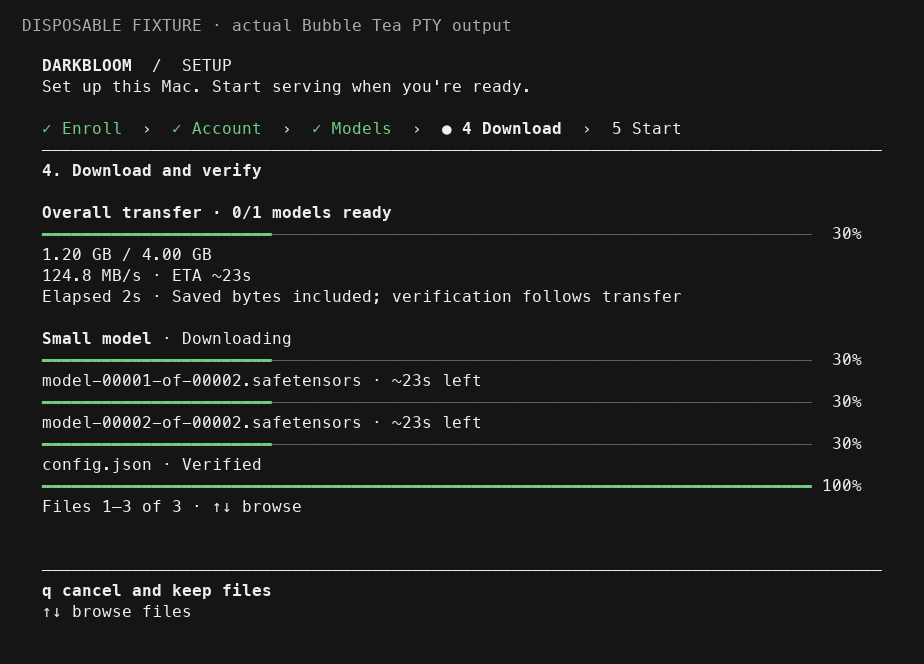
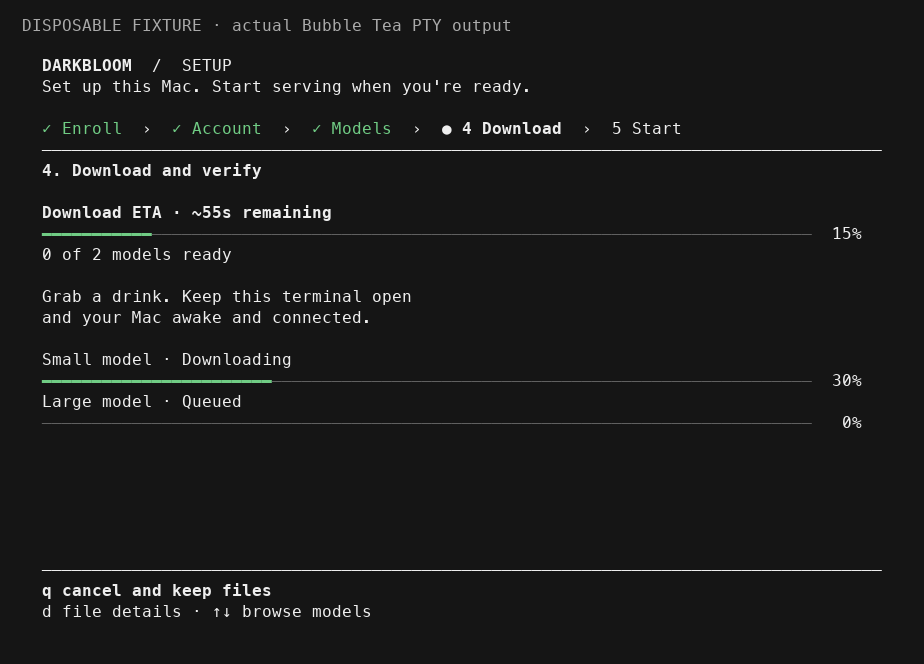
Update download overview and detail previews

diff --git a/docs/developer/onboarding-test.md b/docs/developer/onboarding-test.md
@@ -1,6 +1,6 @@
 # Test provider onboarding on a Mac
 
-> Last updated: 2026-09-07 · commit `1ce4526c8`
+> Last updated: 2026-09-07 · commit `dcede9151`
 
 Test the real installer, device enrollment, account linkage, model downloads,
 and background startup on a physical Apple Silicon Mac. Use the reset script
@@ -40,11 +40,14 @@ bottom; use Page Up/Down to read long text in a small terminal.
 To retry an interrupted download, quit the old screen with `q`, then run the
 same command above **without resetting**. Confirm the same models and press Enter.
 Completed files and partial transfers are reused. The download screen shows an
-overall transfer bar, bytes, speed, approximate ETA, elapsed time, and individual
-file bars. Use ↑/↓ to browse files; enlarge the terminal for more detail. A total
-prefixed with `~` includes catalog estimates for manifests not yet read. At 100%
-transfer, wait for integrity verification and publication before the final Start
-screen. Verification time is separate from download ETA.
+prominent download ETA, an overall bar, and a row for every selected model,
+marked Downloading, Queued, Checking or Ready. Use ↑/↓ to browse models. Press `d`
+for the active model's file bars, speed and elapsed time; press `d` again to return
+to the overview. Enlarge the terminal for more rows. ETA is approximate and uses
+catalog size estimates until manifests arrive. Keep the terminal open and your
+Mac awake and connected while you take a break. At 100% transfer, wait for
+integrity verification and publication before the final Start screen.
+Verification time is separate from download ETA.
 
 ## Signed installer prerequisites
 
@@ -223,7 +226,7 @@ macOS observation, not a coordinator trust verdict.
 | Fresh setup | Remove the profile and local state, then install | Enrollment is an explicit next step; account linkage follows confirmed enrollment; no background service starts before the final Enter |
 | Models | Select multiple models with Space, then Enter | Downloaded section appears only when populated; available models use total physical RAM with load safeguards; selected downloads reuse the verified downloader |
 | Additional models | Expand the hidden section when the live catalog contains models beyond the estimate | A fit caveat is visible; they can be downloaded, but this selection does not enable them for serving; choose at least one fitting model to finish |
-| Download dashboard | Download a model, browse file rows, resize, and wait for verification | Overall bar and cancel remain visible; file bars stay independent; resumed bytes count toward progress but not transfer speed; Ready appears only after verification |
+| Download dashboard | Download multiple models, toggle details with `d`, browse rows, resize, and wait for verification | Overall bar and cancel remain visible; file bars stay independent; resumed bytes count toward progress but not transfer speed; Ready appears only after verification |
 | Interruption | Quit before enrollment approval or final start; interrupt a download separately; run `darkbloom start --tui` | The same coordinator/config and model intent resume; completed/partial downloads are reused; final Enter is still required |
 | Update | Complete setup, rerun the same installer while running, then repeat after `darkbloom stop` | No enrollment/account/model prompts; running/stopped service state is preserved; the installer prints the applicable restart/start instruction |
 | Other entry points | Try `darkbloom enroll`, `darkbloom login`, `darkbloom models catalog`, `darkbloom restart`, and `darkbloom doctor` | The standalone commands remain usable; the configured coordinator is retained after setup |

diff --git a/docs/architecture/components/provider-onboarding.md b/docs/architecture/components/provider-onboarding.md
@@ -1,6 +1,6 @@
 # Provider onboarding session
 
-> Last updated: 2026-09-07 · commit `1ce4526c8`
+> Last updated: 2026-09-07 · commit `dcede9151`
 
 The opt-in `darkbloom start --tui` frontend runs Bubble Tea while a foreground
 session in the existing Swift executable owns onboarding. The provider still
@@ -77,9 +77,11 @@ integrity and eligibility. Individual byte updates serialize at most ten times
 per second; phase changes emit immediately. The displayed inventory is bounded
 to 128 files with shortened labels, while aggregate counts cover every file.
 
-`provider-tui/download_view.go` (`downloadView`) pins overall transfer, bytes,
-rolling speed, ETA, elapsed time and model status above scrollable file bars.
-Totals use catalog estimates until manifests arrive and are marked approximate.
+`provider-tui/download_view.go` (`downloadView`) highlights approximate download ETA and overall progress above
+rows for every selected model, including queued and completed models. File bars,
+rolling speed and elapsed time are hidden behind the `d` detail toggle. Arrow
+keys browse models in the overview and files in detail mode. Totals use catalog
+estimates until manifests arrive.
 Transfer ETA excludes verification time; hashing and publishing have explicit
 status text. Speed history expires during stalls, and the frontend never turns
 100% transferred into Ready itself. `provider-tui/download_progress.go`
